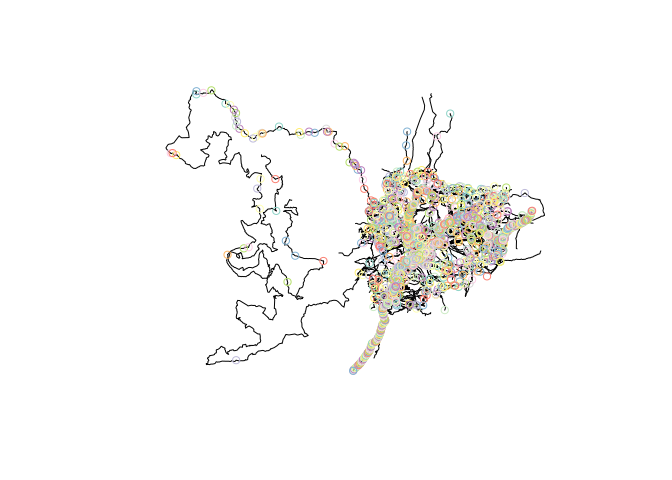
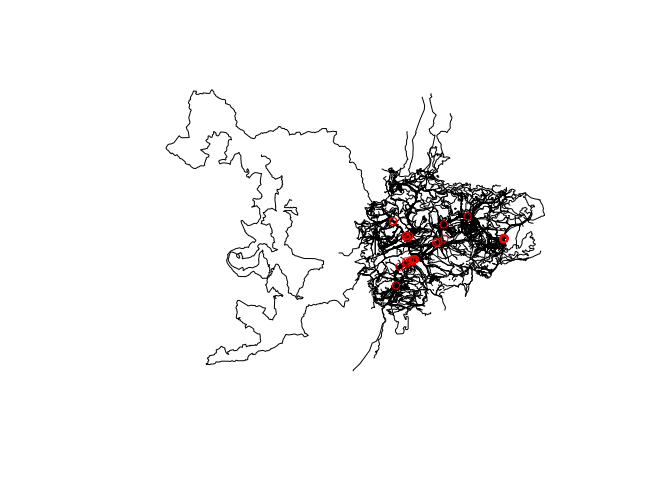
Update readme showing attributes argument

diff --git a/README.md b/README.md
@@ -34,31 +34,59 @@ devtools::install_github("ITSLeeds/geofabric")
 
 Give geofabric the name of a geofabric zone and it will download and
 import it. By default it imports the ‘lines’ layer, but any layer can be
-read-in.
+read-in. Behind the scenes, the function `read_pbf()`, a wrapper around
+`sf::st_read()` is used with configuration options to import additional
+columns from the .pbf files not imported by default, including
+`maxspeed`, `lanes` and `oneway` (the attributes to include can be set
+with `attributes` argument):
 
 ``` r
 library(geofabric)
 andorra_lines = get_geofabric(name = "andorra", layer = "lines")
-#> No exact matching geofabric zone. Best match is Andorra
-#> Downloading http://download.geofabrik.de/europe/andorra-latest.osm.pbf to /tmp/Rtmpdr8qaM/andorra.osm.pbf
-andorra_point = get_geofabric(name = "andorra", layer = "points")
-#> No exact matching geofabric zone. Best match is Andorra
-#> Data already detected in /tmp/Rtmpdr8qaM/andorra.osm.pbf
+#> No exact matching geofabric zone. Best match is Andorra (1.5 MB)
+#> Downloading http://download.geofabrik.de/europe/andorra-latest.osm.pbf to 
+#> /tmp/RtmpCKcKzj/andorra.osm.pbf
+#> Old attributes: attributes=name,highway,waterway,aerialway,barrier,man_made
+#> New attributes: attributes=name,highway,waterway,aerialway,barrier,man_made,maxspeed,oneway,building,surface,landuse,natural,start_date,wall,service,lanes,layer,tracktype,bridge,foot,bicycle,lit,railway,footway
+#> Using ini file that can can be edited with file.edit(/tmp/RtmpCKcKzj/ini_new.ini)
+names(andorra_lines)
+#>  [1] "osm_id"     "name"       "highway"    "waterway"   "aerialway" 
+#>  [6] "barrier"    "man_made"   "maxspeed"   "oneway"     "building"  
+#> [11] "surface"    "landuse"    "natural"    "start_date" "wall"      
+#> [16] "service"    "lanes"      "layer"      "tracktype"  "bridge"    
+#> [21] "foot"       "bicycle"    "lit"        "railway"    "footway"   
+#> [26] "z_order"    "other_tags" "geometry"
+andorra_point = get_geofabric(name = "andorra", layer = "points", attributes = "shop")
+#> No exact matching geofabric zone. Best match is Andorra (1.5 MB)
+#> Data already detected in /tmp/RtmpCKcKzj/andorra.osm.pbf
+#> Old attributes: attributes=name,barrier,highway,ref,address,is_in,place,man_made
+#> New attributes: attributes=name,barrier,highway,ref,address,is_in,place,man_made,shop
+#> Using ini file that can can be edited with file.edit(/tmp/RtmpCKcKzj/ini_new.ini)
+names(andorra_point) # note the 'shop' column has been added
+#>  [1] "osm_id"     "name"       "barrier"    "highway"    "ref"       
+#>  [6] "address"    "is_in"      "place"      "man_made"   "shop"      
+#> [11] "other_tags" "geometry"
 plot(andorra_lines$geometry)
-plot(andorra_point, add = TRUE)
-#> Warning in plot.sf(andorra_point, add = TRUE): ignoring all but the first
-#> attribute
+plot(andorra_point[andorra_point$shop == "supermarket", ], col = "red", add = TRUE)
+#> Warning in plot.sf(andorra_point[andorra_point$shop == "supermarket", ], :
+#> ignoring all but the first attribute
 ```
 
 <img src="man/figures/README-example-1.png" width="100%" />
 
-If there are no files available for a zone name, geofabric will search
-for and import the nearest matching zone:
+The above code plotted lines representing roads and other linear
+features in Andorra, with an overlay of shops that are represented in
+OSM data. If there are no files available for a zone name, geofabric
+will search for and import the nearest matching zone:
 
 ``` r
 iow_lines = get_geofabric(name = "isle wight")
-#> No exact matching geofabric zone. Best match is Isle of Wight
-#> Downloading http://download.geofabrik.de/europe/great-britain/england/isle-of-wight-latest.osm.pbf to /tmp/Rtmpdr8qaM/isle wight.osm.pbf
+#> No exact matching geofabric zone. Best match is Isle of Wight (7.2 MB)
+#> Downloading http://download.geofabrik.de/europe/great-britain/england/isle-of-wight-latest.osm.pbf to 
+#> /tmp/RtmpCKcKzj/isle wight.osm.pbf
+#> Old attributes: attributes=name,highway,waterway,aerialway,barrier,man_made
+#> New attributes: attributes=name,highway,waterway,aerialway,barrier,man_made,maxspeed,oneway,building,surface,landuse,natural,start_date,wall,service,lanes,layer,tracktype,bridge,foot,bicycle,lit,railway,footway
+#> Using ini file that can can be edited with file.edit(/tmp/RtmpCKcKzj/ini_new.ini)
 plot(iow_lines$geometry) # note the lines contain ferry services to france and elsewhere
 ```
 
